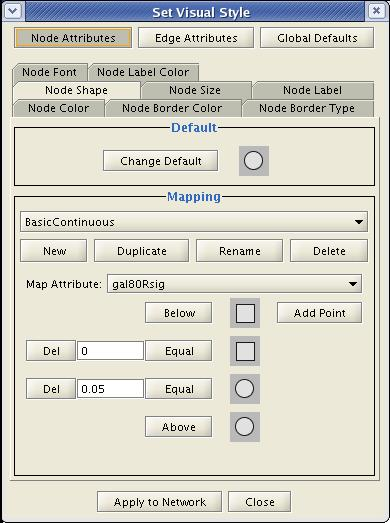
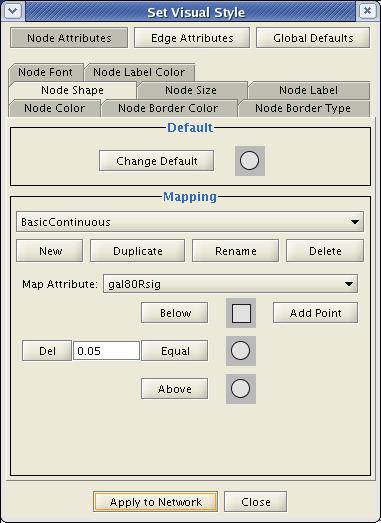
Fixing small bugs identified by Ben at SGD.
git-svn-id: http://chianti.ucsd.edu/svn@4554 0ecc0d97-ab19-0410-9704-bfe1a75892f5

diff --git a/cyto_web/trunk/tut/fetching.data.php b/cyto_web/trunk/tut/fetching.data.php
@@ -72,9 +72,11 @@ presentation will be available soon
 
 <H3>External websites for SIF files</H3>
 <P>Here, we will explore
-some external data resources for Cytoscape.  The first is a resource
-useful to those working with yeast: the batch download tool at the
-Saccharomyces Genome Database.  
+some external data resources for Cytoscape.  
+<P>
+<B>Saccharomyces Genome Database:</B> This is a key resource for anyone who works with yeast!
+The SGD provides physical and genetic interactions, which may be downloaded into Cytoscape
+SIF format, as outlined below.
 </P>
 <OL>
     <LI><P>Go to
@@ -98,37 +100,38 @@ Saccharomyces Genome Database.
     Physical or genetic?  You can check by looking at the edge attributes
     under the <B>Attribute Browser</B>.
 </OL>
-<P>BIND is central repository for protein interaction data, and represents a
+<P>
+<B>BIND</B> is central repository for protein interaction data, and represents a
 very useful resource for those interested in interaction networks.  BIND 
 exports data to the SIF format as described below.</P>
 <OL>
     <LI><P>In your web browser, go to BIND website at 
     <A HREF="http://bind.ca/Action">http://bind.ca/Action</A>.
-    <LI><P>Underneath the <B>Search </B>form, click on 
-    <B>Field specific search</B>.  This should take you to the search menu 
-    shown below: </P>
-    <IMG SRC="fetching.data/Fig11.gif"  WIDTH=425 HEIGHT=142></P>
-    <LI><P>Click on the link
-    labeled<B> field</B>.  This will bring up the <B>Query Fields</B>
-    popup window, shown below: 
-    <IMG SRC="fetching.data/Fig12.jpg"  WIDTH=306 HEIGHT=370></P>
-    <LI><P>Click on <B>Entrez Gene ID</B>.</P>
-    <LI><P> In the right-hand side of the <B>Field specific search</B> form,
-    enter <B>7157,</B> the Entrez Gene ID for the human gene TP53. </P>
-    <IMG SRC="fetching.data/Fig13.gif" WIDTH=438 HEIGHT=143></P>
-    <LI><P>Click <B>Search</B>.  This should bring up a long list of results,
-    as shown: </P>
-    <IMG SRC="fetching.data/Fig14.gif"  WIDTH=441 HEIGHT=175>
-    <LI><P> In the <B>Options</B> menu at the right, under 
-    <B>Export Results</B>, scroll down to <B>Cytoscape SIF.</B></P>
-    <LI><P> Under <B>Visualize Results</B>, scroll down to <B>Save all to SIF
-    file</B>.</P>
-    <LI><P> On your desktop, you should see a new file called
-    <B>searchresults.sif</B>.  Load this network in Cytoscape.</P>
-    <LI><P> Under the Cytoscape <B>Layout</B> menu, select <B>yFiles</B> and
-    <B>Organic. </B>This should yield a network similar to the one shown
-    below:</P> 
-    <IMG SRC="fetching.data/Fig15.jpg" WIDTH="30%"></P>
+    <LI><P>Underneath the <B>Search </B>form, enter the name of your favorite
+    protein (such as "TP53") and click on <B>Go</B>
+    <LI> This will take you to a new page, with a box at the left labeled <B>BIND Text
+    Search</B>, and a box on the right labeled <B>Options</B> and shown below:
+    <P><IMG SRC="fetching.data/Fig16.jpg">
+    <LI>In the <B>Options</B> box, click on the pull-down menu labeled <B>Export Results</B>.
+    In the list of export formats, you will see <B>Cytoscape SIF</B>.  If you select this
+    format, a file called <B>searchresults.sif</B> will be downloaded to your computer.
+    <LI> In the <B>Options</B> box, the <B>Visualize Results</B> option allows you to 
+    visualize the selected interaction data in Cytoscape, as outlined below:
+    <OL>
+    	<LI> In the <B>Visualize Results</B> menu, scroll down to <B>First 100 interactions -
+    	Default Plugins</B>.  This will initiate a new web start instance of Cytoscape
+    	on your computer.
+    	<LI> Within a few minutes, you should see a new Cytoscape window similar to the
+    	one shown below, with no <B>Node Attribute Browser</B> (yet), and listing a network
+    	in red, with 0 nodes and 0 edges.  This indicates that the load is in progress.
+    	<P><IMG SRC="fetching.data/Fig17.jpg" WIDTH="50%">
+    	<LI> If you become impatient, right-click on the red network name, and select
+    	<B>Create View</B> in the pull-down menu.  This will show you a network, with nodes
+    	being added as you watch.
+    	<LI> Eventually, you should see a Cytoscape desktop such as the one shown below, 
+    	with a <B>Node Attribute Browser</B>.  This indicates that the download is complete.
+    	<P><IMG SRC="fetching.data/Fig18.jpg" WIDTH="50%">
+    </OL>
 </OL>
 <P>Another useful resource
 for Cytoscape data is the <B>cPath</B> database and Cytoscape plugin.
@@ -143,6 +146,9 @@ from a variety of sources can install and populate a local copy of
 one central repository. Here, we shall explore using the <B>cPath</B>
 plugin to fetch data from Cytoscape.</P>
 <OL>
+	<LI>If you have not already done so, start Cytoscape using the <B>Webstart</B> link
+	above.  This will start an instance of Cytoscape with the <B>cPath</B> plugin already
+	loaded.  This version connects to the cPath demo database at MSKCC.
     <LI><P>Under the <B>Plugins</B>  menu, select <B>Search cPath</B>
     A window should appear, as shown below.</P>
     <IMG SRC="fetching.data/Fig7.jpg"  WIDTH=450 HEIGHT=363>

diff --git a/cyto_web/trunk/tut/basic.expression.php b/cyto_web/trunk/tut/basic.expression.php
@@ -334,8 +334,9 @@ button labeled <b>Above</b>, and three <em>points</em>, three input
 fields each with a <b>Del</b> button at the left and a <b>Equal</b>
 button at the right.</li>
 
-<li>Click on one of the three <b>Del</b> buttons to delete one of
-the three points.</li>
+<li>Click on the bottommost two <b>Del</b> buttons to delete the two
+bottom points.
+<EM>Make sure to follow these instructions carefully!</EM></li>
 
 <li>Click on the <b>Below</b> button. This should bring up the
 <b>Select Appearance</b> menu, shown below: 
@@ -346,11 +347,10 @@ the three points.</li>
 <li>Select a square.</li>
 
 <li>In the line below <b>Below</b>, set the number in the input
-field to 0, click on the <b>Equals</b> button, and select a
-square.</li>
+field to 0.05, click on the <b>Equals</b> button, and select a
+circle.</li>
 
-<li>In the following line, set the number in the input field to
-0.05.</li>
+<li>In the following line, labeled <B>Above</B>, select a circle.</li>
 
 <li>The <b>Set Visual Style</b> window should appear as follows: 
 
@@ -470,8 +470,8 @@ black squares.</li>
 </li>
 
 <li>
-<p>Go to the NCBI website (&lt;&lt;A
-HREF="http://www.ncbi.nlm.nih.gov/"&gt;http://www.ncbi.nlm.nih.gov/),
+<p>Go to the NCBI website (<A HREF="http://www.ncbi.nlm.nih.gov/">
+http://www.ncbi.nlm.nih.gov/</A>),
 and search the <b>Gene</b> database for <b>YPL248C</b>. The items
 returned should include <b>Gal4</b>. Click on the link for
 <b>Gal4</b> to get more information.</p>
